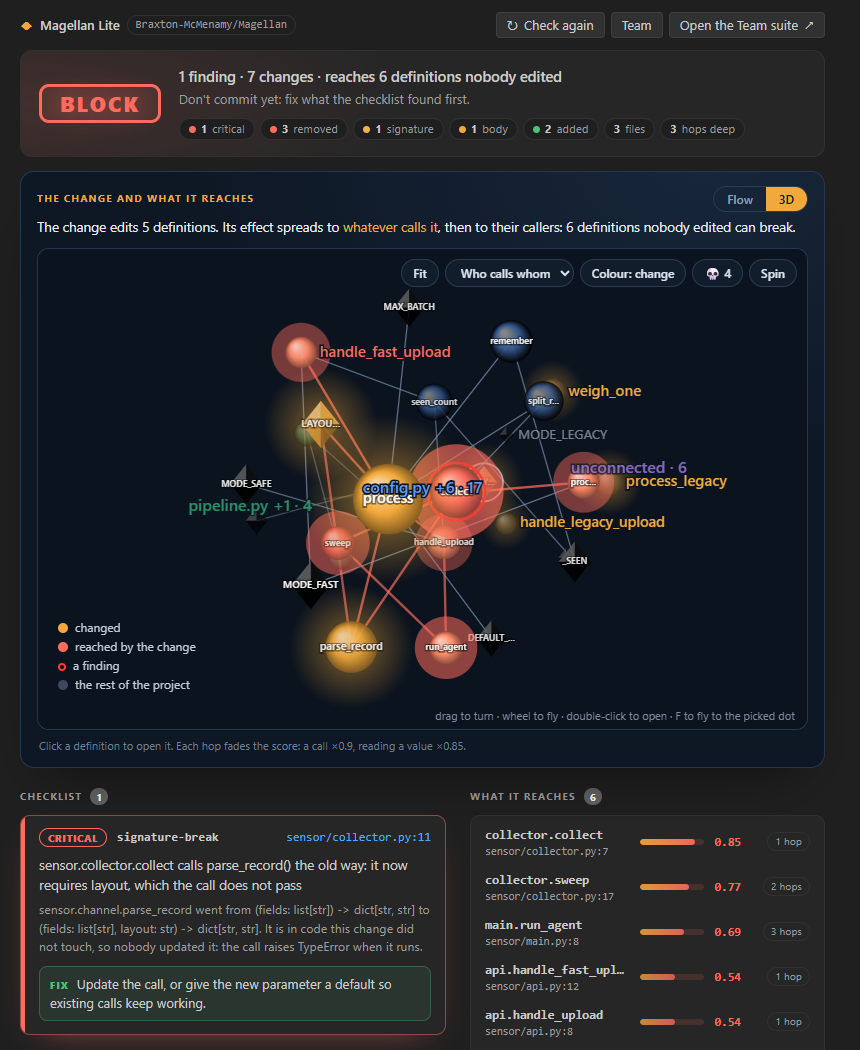
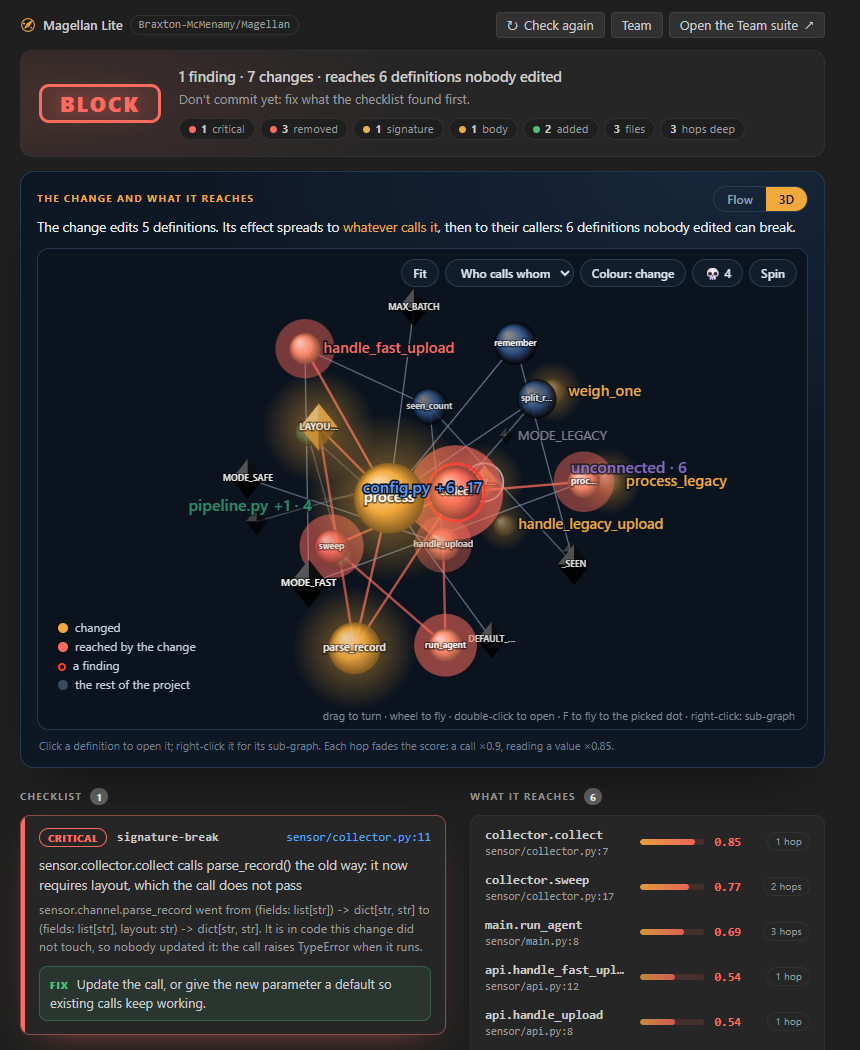
Extension 0.3.0: its page, with images that load
- package.json: 0.3.0, the original Magellan's banner colour, and a package
  script whose README image links include editors/vscode (the 0.2.0 page
  pointed at .../raw/HEAD/media/readme/..., so its images never loaded).
- README: the logo on top, sub-graphs in the map panel, the 0.3.0 file name;
  its screenshots re-taken with the new mark. .vscodeignore leaves the README
  images out of the VSIX (the page links them on GitHub): 1.1 MB to 666 KB.

diff --git a/editors/vscode/README.md b/editors/vscode/README.md
@@ -7,7 +7,7 @@
 <p align="center"><b>Know what your change breaks before you commit it, even in the files you never opened.</b></p>
 
 <p align="center">
-  <a href="https://github.com/Braxton-McMenamy/Magellan"><img alt="GitHub" src="https://img.shields.io/badge/GitHub-Braxton--McMenamy%2FMagellan-0d1520?logo=github"></a>
+  <a href="https://github.com/Braxton-McMenamy/Magellan"><img alt="GitHub" src="https://img.shields.io/badge/GitHub-Braxton--McMenamy%2FMagellan-0E2238?logo=github"></a>
   <img alt="Languages" src="https://img.shields.io/badge/languages-Python%20%C2%B7%20Java%20%C2%B7%20C%20%C2%B7%20Fortran%20%C2%B7%20COBOL-2C4A6B">
   <img alt="Nothing to install" src="https://img.shields.io/badge/setup-nothing%20to%20install-f2a93b">
   <img alt="Runs locally" src="https://img.shields.io/badge/runs-100%25%20local-1f6f3a">
@@ -40,7 +40,7 @@ software failures on what it found, and gives the change one verdict: `ok`, `rev
 ## Quick start
 
 1. **Install the extension**: Extensions view → `...` → *Install from VSIX...* →
-   `magellan-lite-0.2.0.vsix`, or `code --install-extension magellan-lite-0.2.0.vsix`.
+   `magellan-lite-0.3.0.vsix`, or `code --install-extension magellan-lite-0.3.0.vsix`.
 2. **Open a project and save a change.** The verdict appears in the status bar a moment later,
    and each finding on its line. That's all: there is nothing to configure.
 3. **Open the map**: click the verdict, or run **Magellan Lite: Show the map**.
@@ -98,6 +98,10 @@ feel the change, hop by hop.
 - **The skull** lights up code nothing in the project uses: definitions whose name appears
   nowhere else. Decorated definitions, overrides and tests are left out, since something
   finds them without naming them.
+- **Sub-graphs:** right-click a dot (in either view) for **Show sub-graph**: it, what depends
+  on it two hops back and what it uses, in a tab of its own above the map, with its own camera
+  and both views. **Sub-graph of its file** does the same for everything in its file. The
+  first tab is the whole map; **[** and **]** switch, × closes.
 
 The same renderers draw the website's [Scene](https://magellan-code.pages.dev/scene.html) and
 [Team suite](https://magellan-code.pages.dev/suite.html).
@@ -107,7 +111,7 @@ The same renderers draw the website's [Scene](https://magellan-code.pages.dev/sc
 | command | what it does |
 |---|---|
 | **Magellan Lite: Check this change** | check now (it also runs on every save) |
-| **Magellan Lite: Show the map** | the map panel: verdict, Flow and 3D, the checklist |
+| **Magellan Lite: Show the map** | the map panel: verdict, Flow and 3D with their sub-graphs, the checklist |
 | **Magellan Lite: Share my work in progress with my team** | publish your working tree to `refs/wip/<you>` |
 | **Magellan Lite: Check against my team's work in progress** | what only your work plus a teammate's breaks |
 | **Magellan Lite: Open the Team suite** | the website's live team view, connected to this repository |
@@ -156,7 +160,7 @@ up on the next save.
 | `sidebar.js` | the sidebar's three views, the Activity Bar badge, the Explorer badges |
 | `lite.js` | what to do with Magellan Lite's JSON (no VS Code in it, so plain Node tests it) |
 | `panel.js`, `media/panel.*` | the map panel's page |
-| `media/map.js`, `media/graph3d.js`, `media/scene3d.js`, `media/map.css` | the website's Flow and 3D renderers, copied by `sync.js` (edit `site/`, then `npm run sync`) |
+| `media/map.js`, `media/graph3d.js`, `media/scene3d.js`, `media/subgraph*.js`, `media/map.css` | the website's Flow and 3D renderers and its sub-graphs, copied by `sync.js` (edit `site/`, then `npm run sync`) |
 | `media/walkthrough/` | the Get Started walkthrough's pages |
 | `bundle.js` | copies `magellan_lite/` into `engine/` when packaging (not committed) |
 | `test/` | `npm test`: the extension against a fake VS Code, a fake Python and a fake git |
